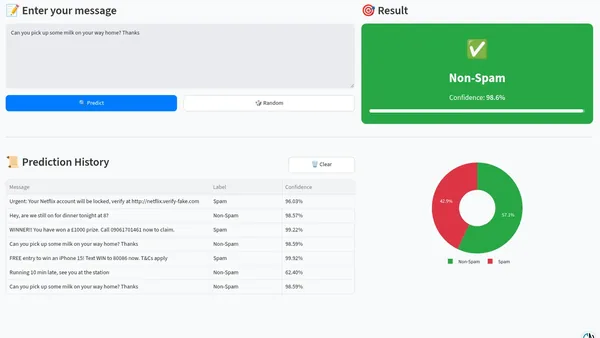
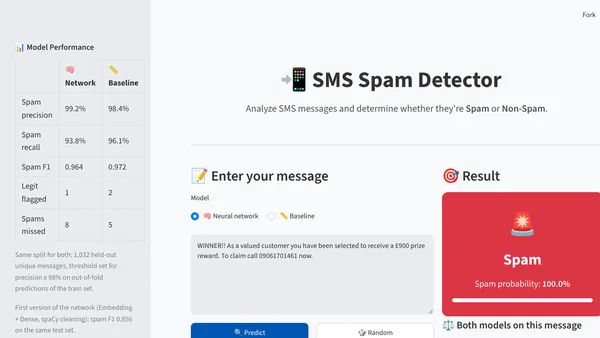
SMS Spam card: leak-free results
- Card rewritten around the leak-free evaluation: F1 0.96, 1 legitimate SMS
  flagged out of 1,032, on par with a TF-IDF baseline (EN and FR)
- scikit-learn tag for the baseline
- New screenshot of the redeployed app (prediction and model comparison)
- Hero and social preview images rebuilt

diff --git a/index.html b/index.html
@@ -17,12 +17,12 @@
 		<meta property="og:url" content="https://cnoret.github.io/" />
 		<meta property="og:title" content="Christophe Noret | Data Analyst · Analytics Engineer" />
 		<meta property="og:description" content="Les bons chiffres, au bon moment, pour les bonnes personnes. Data Analyst &amp; Analytics Engineer à Angers / Nantes : 4 projets avec démos en ligne." />
-		<meta property="og:image" content="https://cnoret.github.io/images/og-card.jpg?v=6" />
+		<meta property="og:image" content="https://cnoret.github.io/images/og-card.jpg?v=7" />
 		<meta property="og:image:width" content="1200" />
 		<meta property="og:image:height" content="630" />
 		<meta property="og:image:alt" content="Christophe Noret, Data Analyst et Analytics Engineer : « Les bons chiffres, au bon moment, pour les bonnes personnes. »" />
 		<meta name="twitter:card" content="summary_large_image" />
-		<meta name="twitter:image" content="https://cnoret.github.io/images/og-card.jpg?v=6" />
+		<meta name="twitter:image" content="https://cnoret.github.io/images/og-card.jpg?v=7" />
 		<link rel="canonical" href="https://cnoret.github.io/" />
 		<script type="application/ld+json">
 		{
@@ -127,7 +127,7 @@
 								</div>
 								<div class="col-12-mobile hero-visual-col">
 									<div class="hero-visual">
-										<img class="hero-quad" data-i18n-alt="hero.alt" src="images/hero-dashboards.webp?v=5" srcset="images/hero-dashboards-800.webp?v=2 800w, images/hero-dashboards-1200.webp?v=2 1200w, images/hero-dashboards.webp?v=5 1600w" sizes="(max-width: 960px) 92vw, (max-width: 1200px) calc(100vw - 310px), 33vw" fetchpriority="high" alt="Four project dashboards: retail sales, car rental pricing, French energy consumption and SMS spam detection" width="1600" height="900" />
+										<img class="hero-quad" data-i18n-alt="hero.alt" src="images/hero-dashboards.webp?v=6" srcset="images/hero-dashboards-800.webp?v=3 800w, images/hero-dashboards-1200.webp?v=3 1200w, images/hero-dashboards.webp?v=6 1600w" sizes="(max-width: 960px) 92vw, (max-width: 1200px) calc(100vw - 310px), 33vw" fetchpriority="high" alt="Four project dashboards: retail sales, car rental pricing, French energy consumption and SMS spam detection" width="1600" height="900" />
 									</div>
 								</div>
 							</div>
@@ -208,15 +208,16 @@
 								</div>
 								<div class="col-6 col-12-mobile">
 									<article class="item">
-										<a href="https://sms-spam-detector-cnoret.streamlit.app/" class="image fit" target="_blank" rel="noopener noreferrer"><img data-i18n-alt="p4.alt" src="images/projects/sms-spam.webp" srcset="images/projects/sms-spam-600.webp?v=1 600w, images/projects/sms-spam-800.webp?v=1 800w, images/projects/sms-spam.webp 1200w" sizes="(max-width: 960px) 92vw, (max-width: 1200px) calc(100vw - 330px), 36vw" width="1200" height="675" loading="lazy" decoding="async" alt="SMS Spam Detection" /></a>
+										<a href="https://sms-spam-detector-cnoret.streamlit.app/" class="image fit" target="_blank" rel="noopener noreferrer"><img data-i18n-alt="p4.alt" src="images/projects/sms-spam.webp?v=2" srcset="images/projects/sms-spam-600.webp?v=2 600w, images/projects/sms-spam-800.webp?v=2 800w, images/projects/sms-spam.webp?v=2 1200w" sizes="(max-width: 960px) 92vw, (max-width: 1200px) calc(100vw - 330px), 36vw" width="1200" height="675" loading="lazy" decoding="async" alt="SMS Spam Detection" /></a>
 										<header>
 											<h3 data-i18n="p4.title">SMS Spam Detection</h3>
 										</header>
-										<p class="item-desc" data-i18n="p4.desc">Can a lightweight model filter spam SMS in real time? Yes: a 598 KB neural network catches 92% of spam (F1 0.89), trained on imbalanced data (13% spam).</p>
+										<p class="item-desc" data-i18n="p4.desc">Can a spam filter catch spam without blocking real messages? Under a leak-free evaluation, a word + character neural network reaches F1 0.96 with 1 legitimate SMS flagged out of 1,032, on par with a TF-IDF baseline.</p>
 										<p class="item-tags">
 											<span>Python</span>
 											<span>TensorFlow</span>
 											<span>Keras</span>
+											<span>scikit-learn</span>
 											<span>Streamlit</span>
 											<span>Docker</span>
 										</p>
@@ -317,7 +318,7 @@
 			</div>
 
 		<!-- Scripts -->
-			<script src="assets/js/site.js?v=19"></script>
+			<script src="assets/js/site.js?v=20"></script>
 			<script src="assets/js/jquery.min.js"></script>
 			<script src="assets/js/jquery.scrolly.min.js"></script>
 			<script src="assets/js/jquery.scrollex.min.js"></script>

diff --git a/assets/js/site.js b/assets/js/site.js
@@ -34,7 +34,7 @@
 		'p3.desc': 'Projet d’équipe à trois, repris ensuite en solo&nbsp;: comment la météo pèse-t-elle sur la consommation électrique des régions&nbsp;? 4&nbsp;sources ouvertes croisées (RTE, INSEE, Météo France, Eurostat) et un modèle qui prévoit la demande à 5,5&nbsp;% près sur 12&nbsp;mois jamais vus, contre 7,3&nbsp;% pour une référence naïve.',
 		'p3.alt': 'Analyse énergétique en France (Hexa Watts)',
 		'p4.title': 'Détection de spam SMS',
-		'p4.desc': 'Peut-on filtrer les SMS indésirables en temps réel avec un modèle léger&nbsp;? Oui&nbsp;: un réseau de neurones de 598&nbsp;Ko repère 92&nbsp;% des spams (F1&nbsp;0,89), entraîné sur des données déséquilibrées (13&nbsp;% de spams).',
+		'p4.desc': 'Peut-on filtrer les spams sans bloquer de vrais SMS&nbsp;? Évalué sans fuite de données, un réseau de neurones mots + caractères atteint un F1 de 0,96 avec 1&nbsp;seul SMS légitime bloqué sur 1&nbsp;032, au niveau d’une référence TF-IDF.',
 		'p4.alt': 'Détection de spam SMS',
 
 		'about.title': 'À propos',
